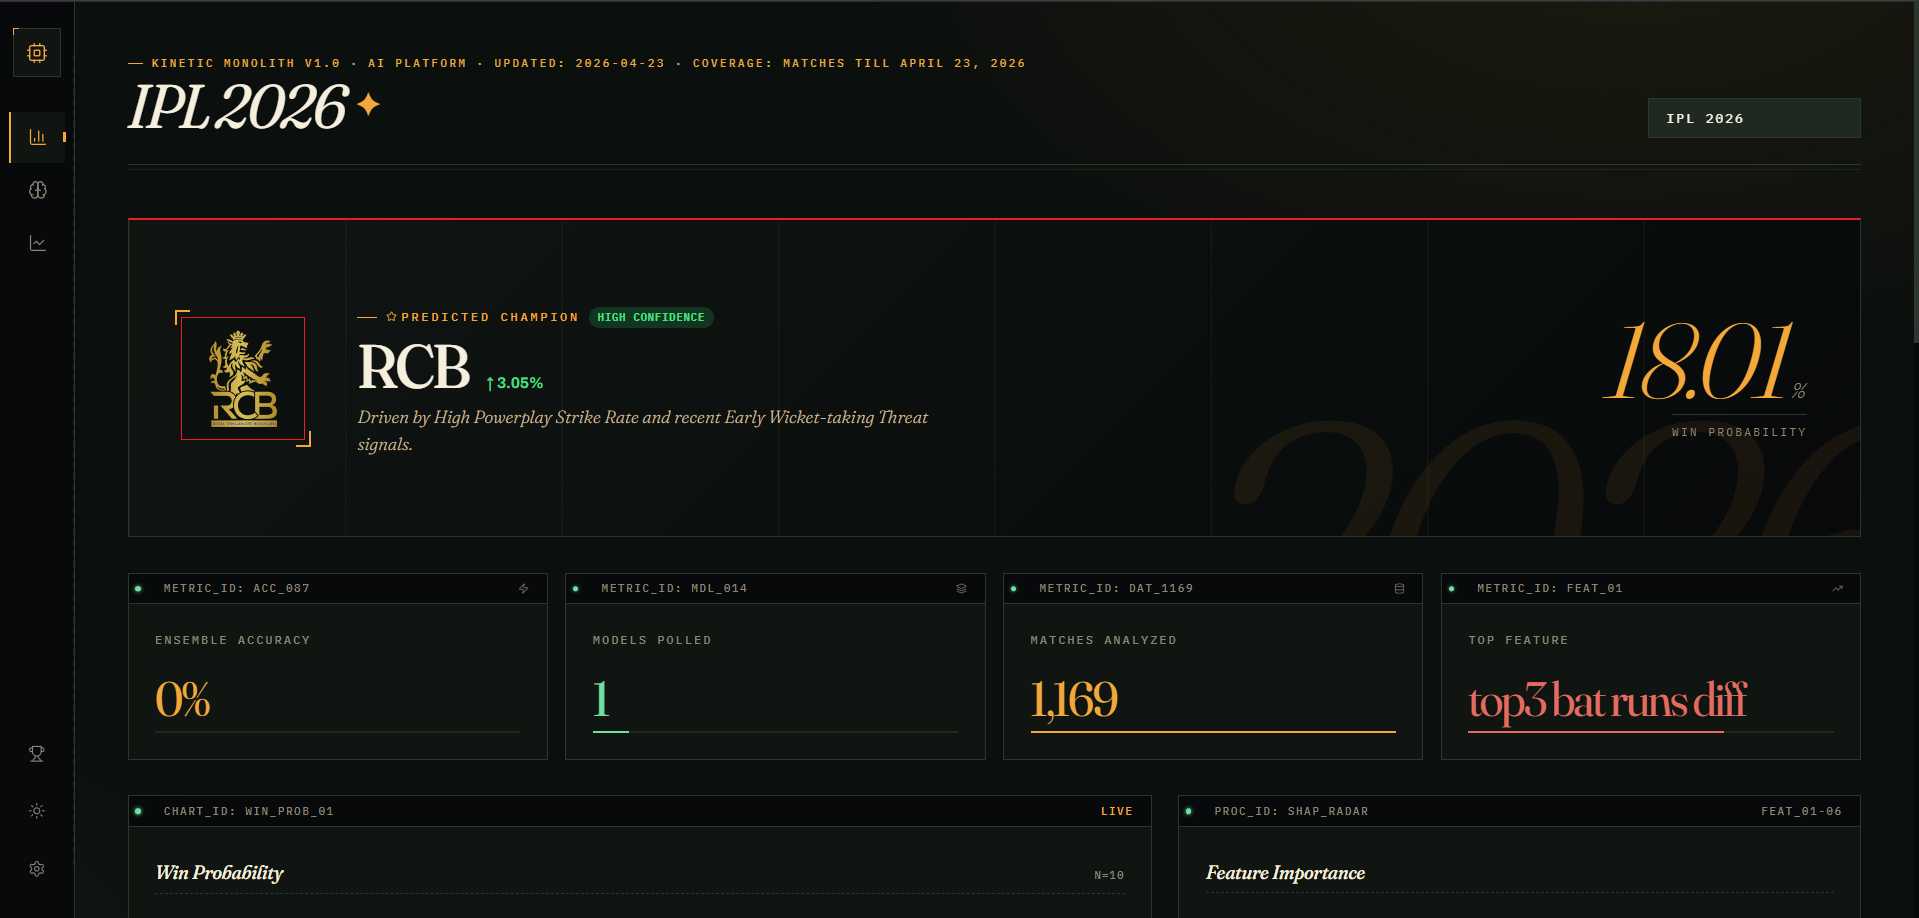
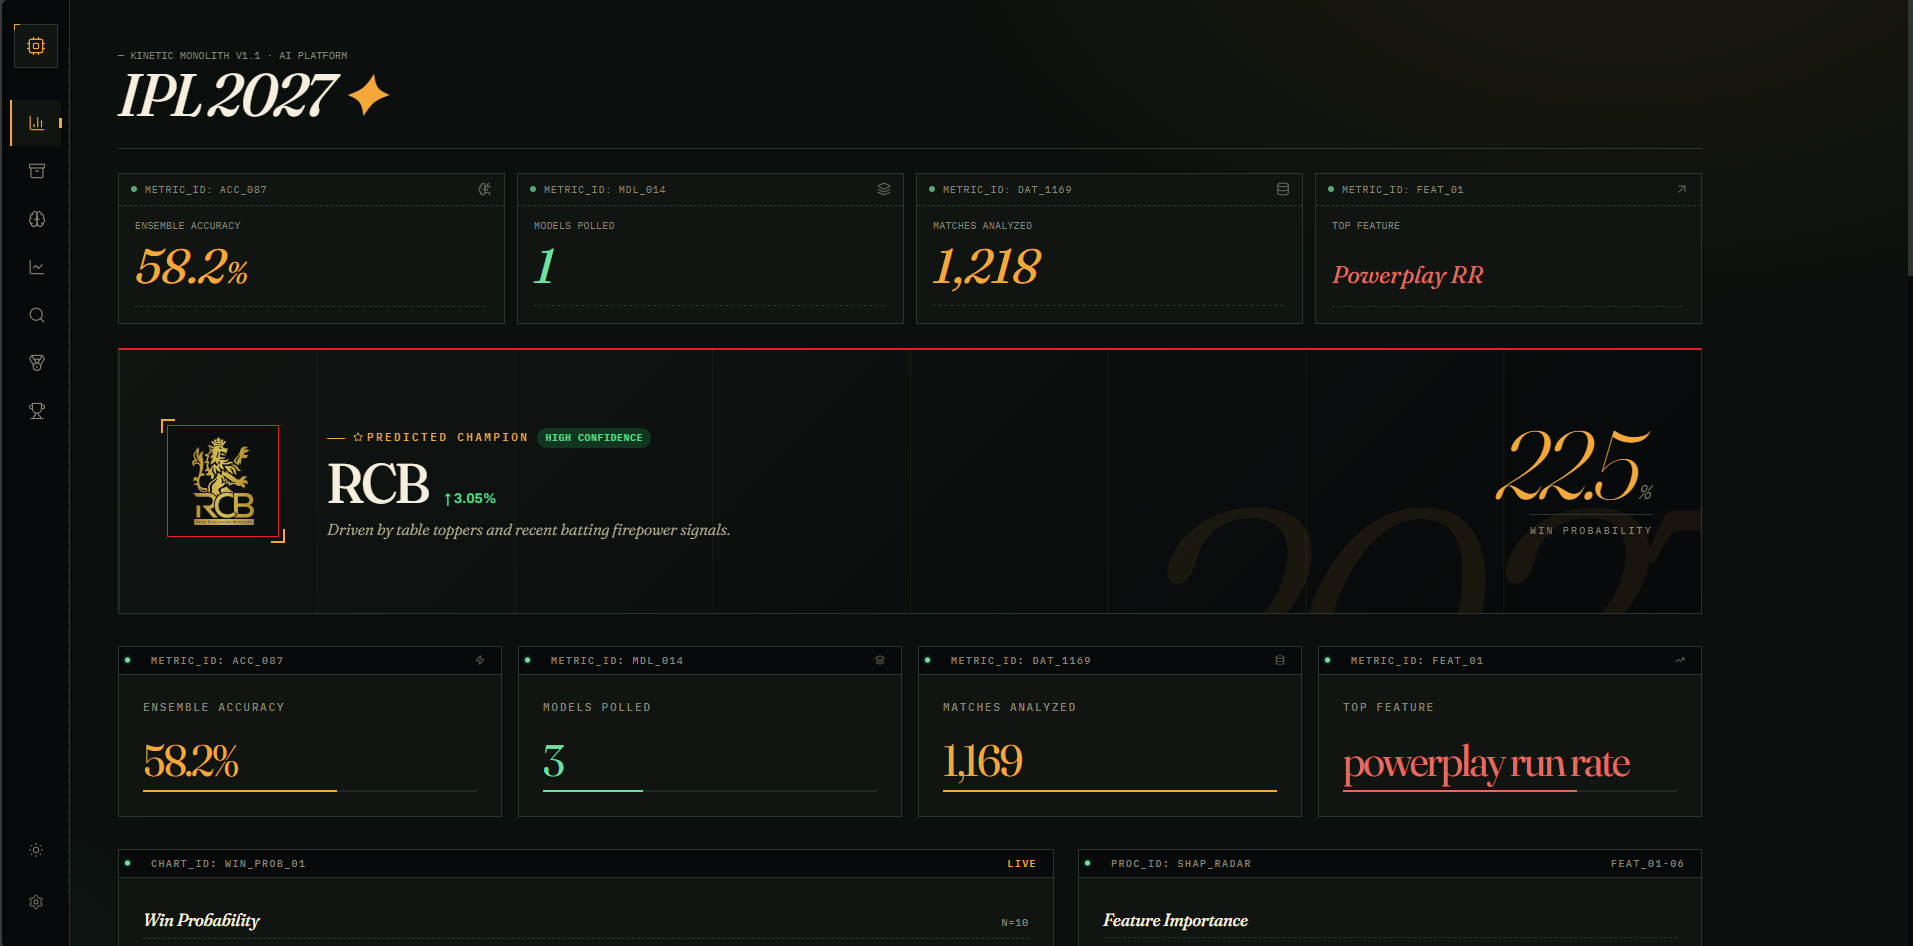
docs: update screenshots to the latest 2027 dashboard UI

diff --git a/README.md b/README.md
@@ -8,14 +8,17 @@
 This is a technical implementation of a dynamic machine learning system designed to model team strength and simulate IPL 2026 outcomes. The project focuses on **Strict Temporal Feature Engineering** to eliminate data leakage and captures the high-scoring, volatile trends of the modern "Impact Player" era.
 
 ### UI Previews
-![Win Probability Breakdown](Public/assets/Win-probability.png)
-*Win Probability Distribution across the 2026 tournament cycle.*
+![Dashboard](dashboard/public/assets/Dashboard.png)
+*Main Dashboard overview for tournament predictions.*
 
-![Feature Intelligence](Public/assets/Why.png)
-*Explaining the "Why" behind team rankings via heuristic signaling.*
+![Leaderboard](dashboard/public/assets/Leaderboard.png)
+*Leaderboard displaying the model and user standings.*
 
-![Match Forecast](Public/assets/Forcast.png)
-*Upcoming match predictions and venue-specific win probabilities.*
+![Teams](dashboard/public/assets/Teams.png)
+*Detailed team profiles, heuristics, and individual insights.*
+
+![Archive](dashboard/public/assets/Archive.png)
+*Historical tournament insights and model explainability.*
 
 ### Core Methodology
 - **Temporal Feature Engineering**: Models are trained on chronological snapshots, ensuring features like "team form" only use data available before the match date.
